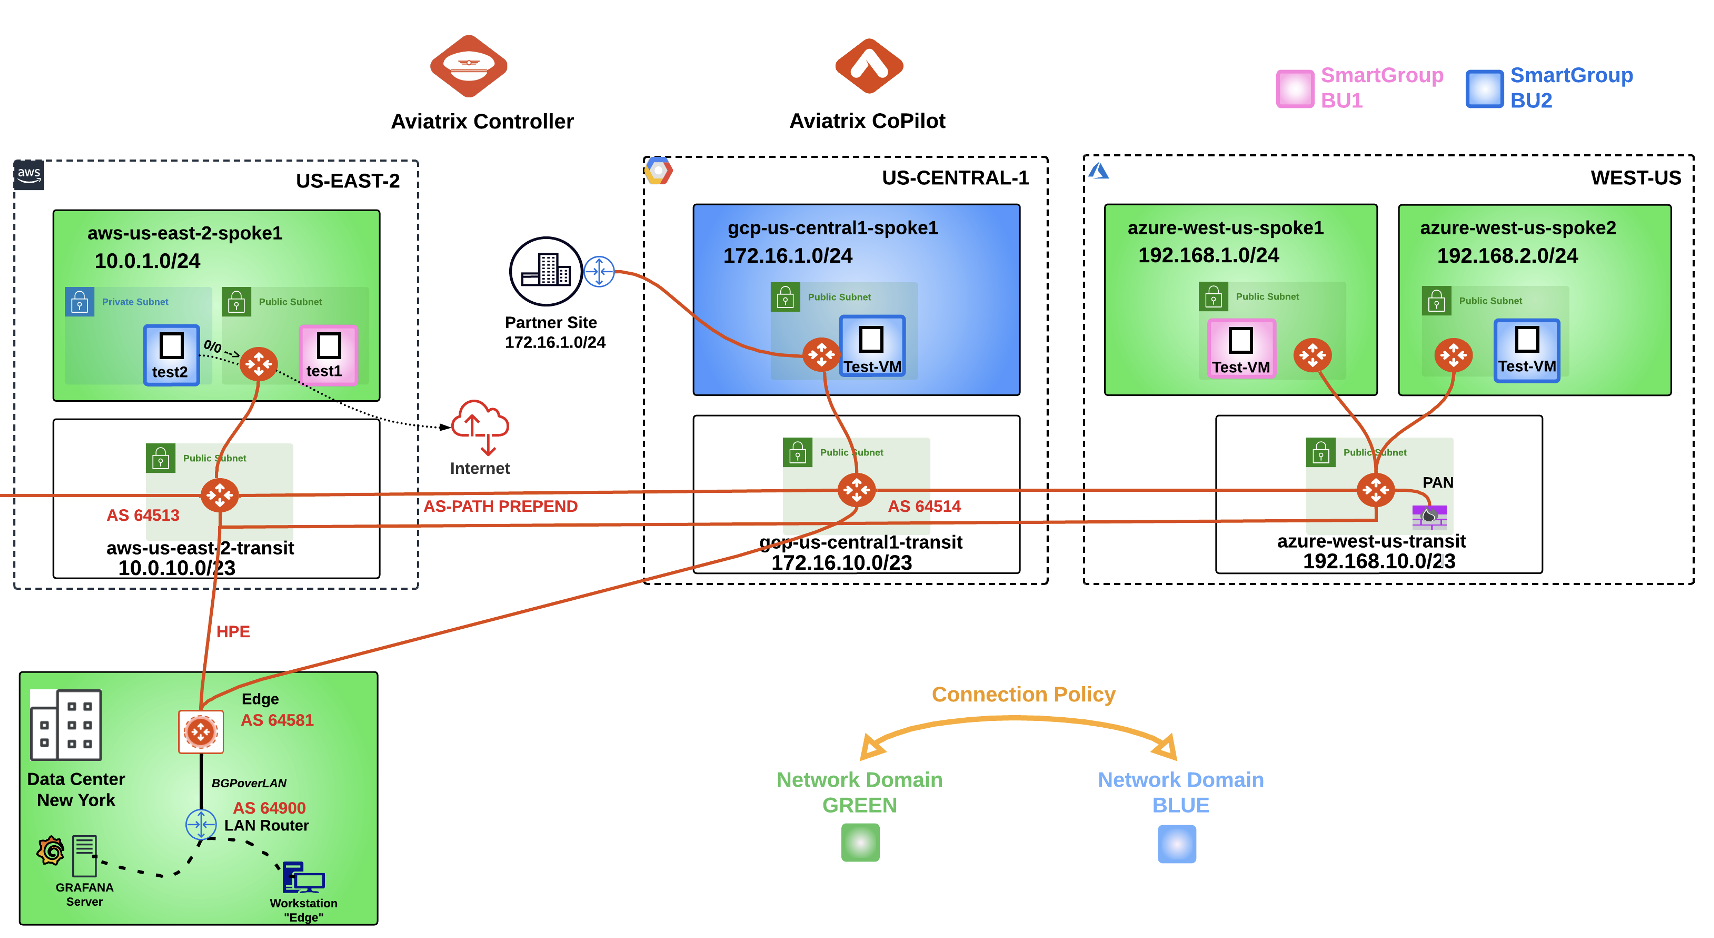
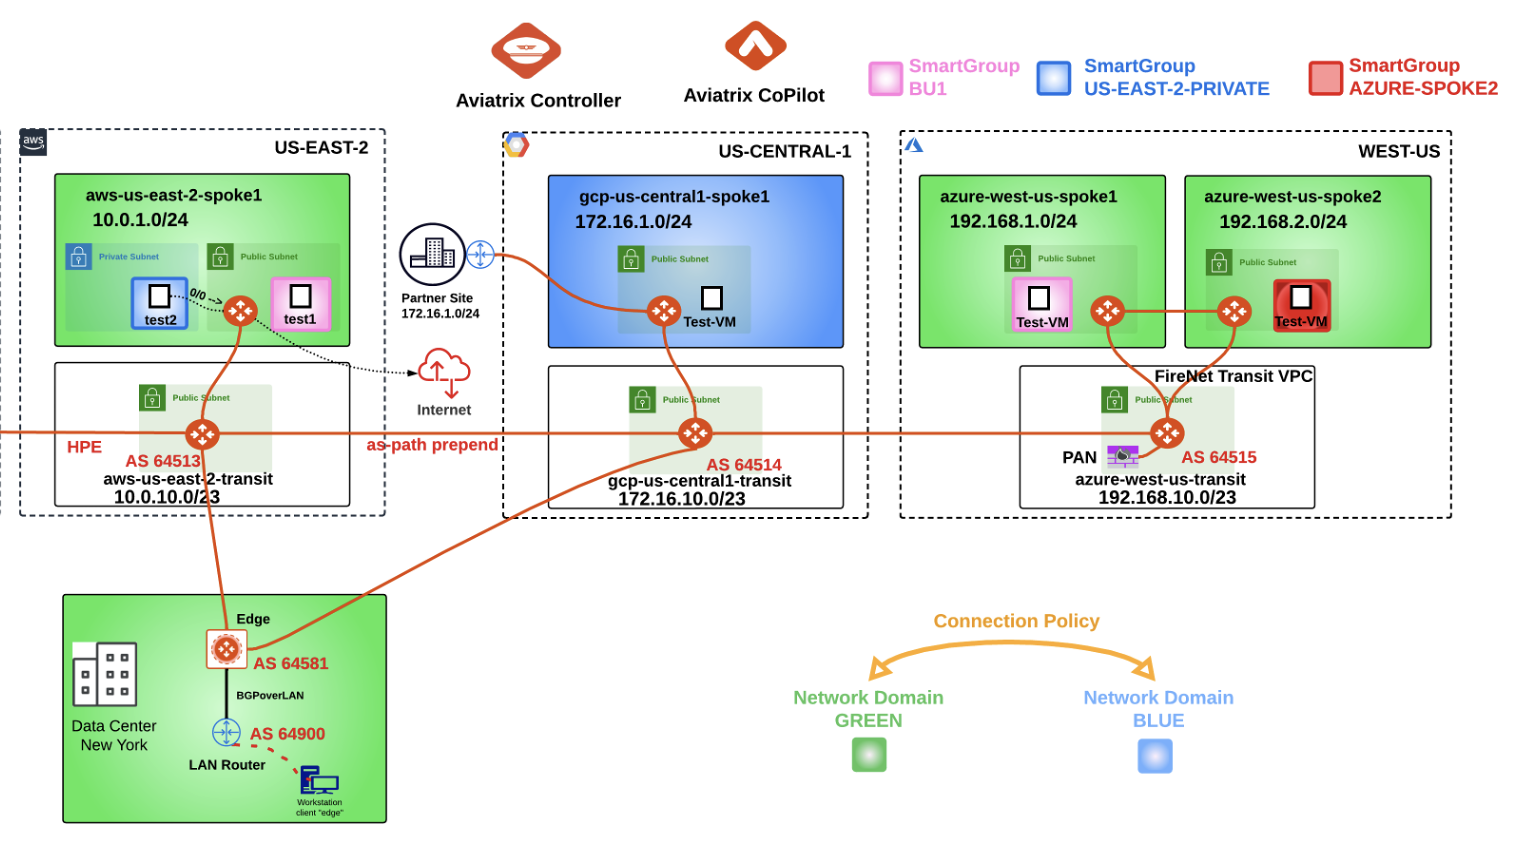
update for pro

diff --git a/ace_pro/docs/lab11.md b/ace_pro/docs/lab11.md
@@ -26,17 +26,19 @@ The **CSP tagging** is the recommended method for defining the SmartGroups.
 
 In this lab, you will implement the following requirements across all three CSPs:
 
-- Create a Smart Group named `"bu1"` that uses the tag `"environment"`.
+- Create a Smart Group named `"bu1"` tagged with `"environment"` that identifies the following instances: **_aws-us-east-2-spoke1-test1_** and **_azure-west-us-spoke1-test1_**.
 
-- Create a Smart Group named "bu2" that uses the tag `"environment"`.
+- Create a Smart Group named `"us-east-2-private"` that uses the tag `"Name" = "aws-us-east-2-spoke1-test1"` that identifies the following instance: **_aws-us-east-2-spoke1-test2_**
 
-- Create an `intra-rule` allowing ICMP traffic within bu1.
+- Create a Smart Group named `"azure-spoke2"` that uses the tag `"IP/CDR" = "192.168.2.0/24"` that identifies the following instance: **_azure-west-us-spoke2_**
 
-- Create an `intra-rule` allowing ICMP traffic within bu2.
+- Create an `intra-rule` allowing ICMP traffic within `bu1`.
+
+- Create an `inter-rule` allowing ICMP traffic <ins>from</ins> `us-east-2-private` <ins>to</ins> `azure-spoke2` only.
 
 - Create an `intra-rule` allowing SSH traffic within bu1.
 
-- Create an `inter-rule` allowing ICMP traffic <ins>from</ins> bu2 <ins>to</ins> bu1 only.
+- Create an `inter-rule` allowing ICMP traffic <ins>from</ins> `azure-spoke2` <ins>to</ins> `bu1 only`.
 
 ```{figure} images/lab10-initial.png
 ---

diff --git a/ace_ops/docs/pod.md b/ace_ops/docs/pod.md
@@ -5,8 +5,6 @@ Click on the image below to access your personal POD portal.
 
 - **Access Code**: <span style='color:#479608'>BUO6</span>
 
-- **PASSWORD for CoPilot / Fortinet / AWS Console**: <span style='color:#479608'>1025#5TU4rSytbEF</span>
-
 <a href="https://ops-portal.ace.aviatrixlab.com/" target="_blank">
 
 ![My image](images/pod.png)
